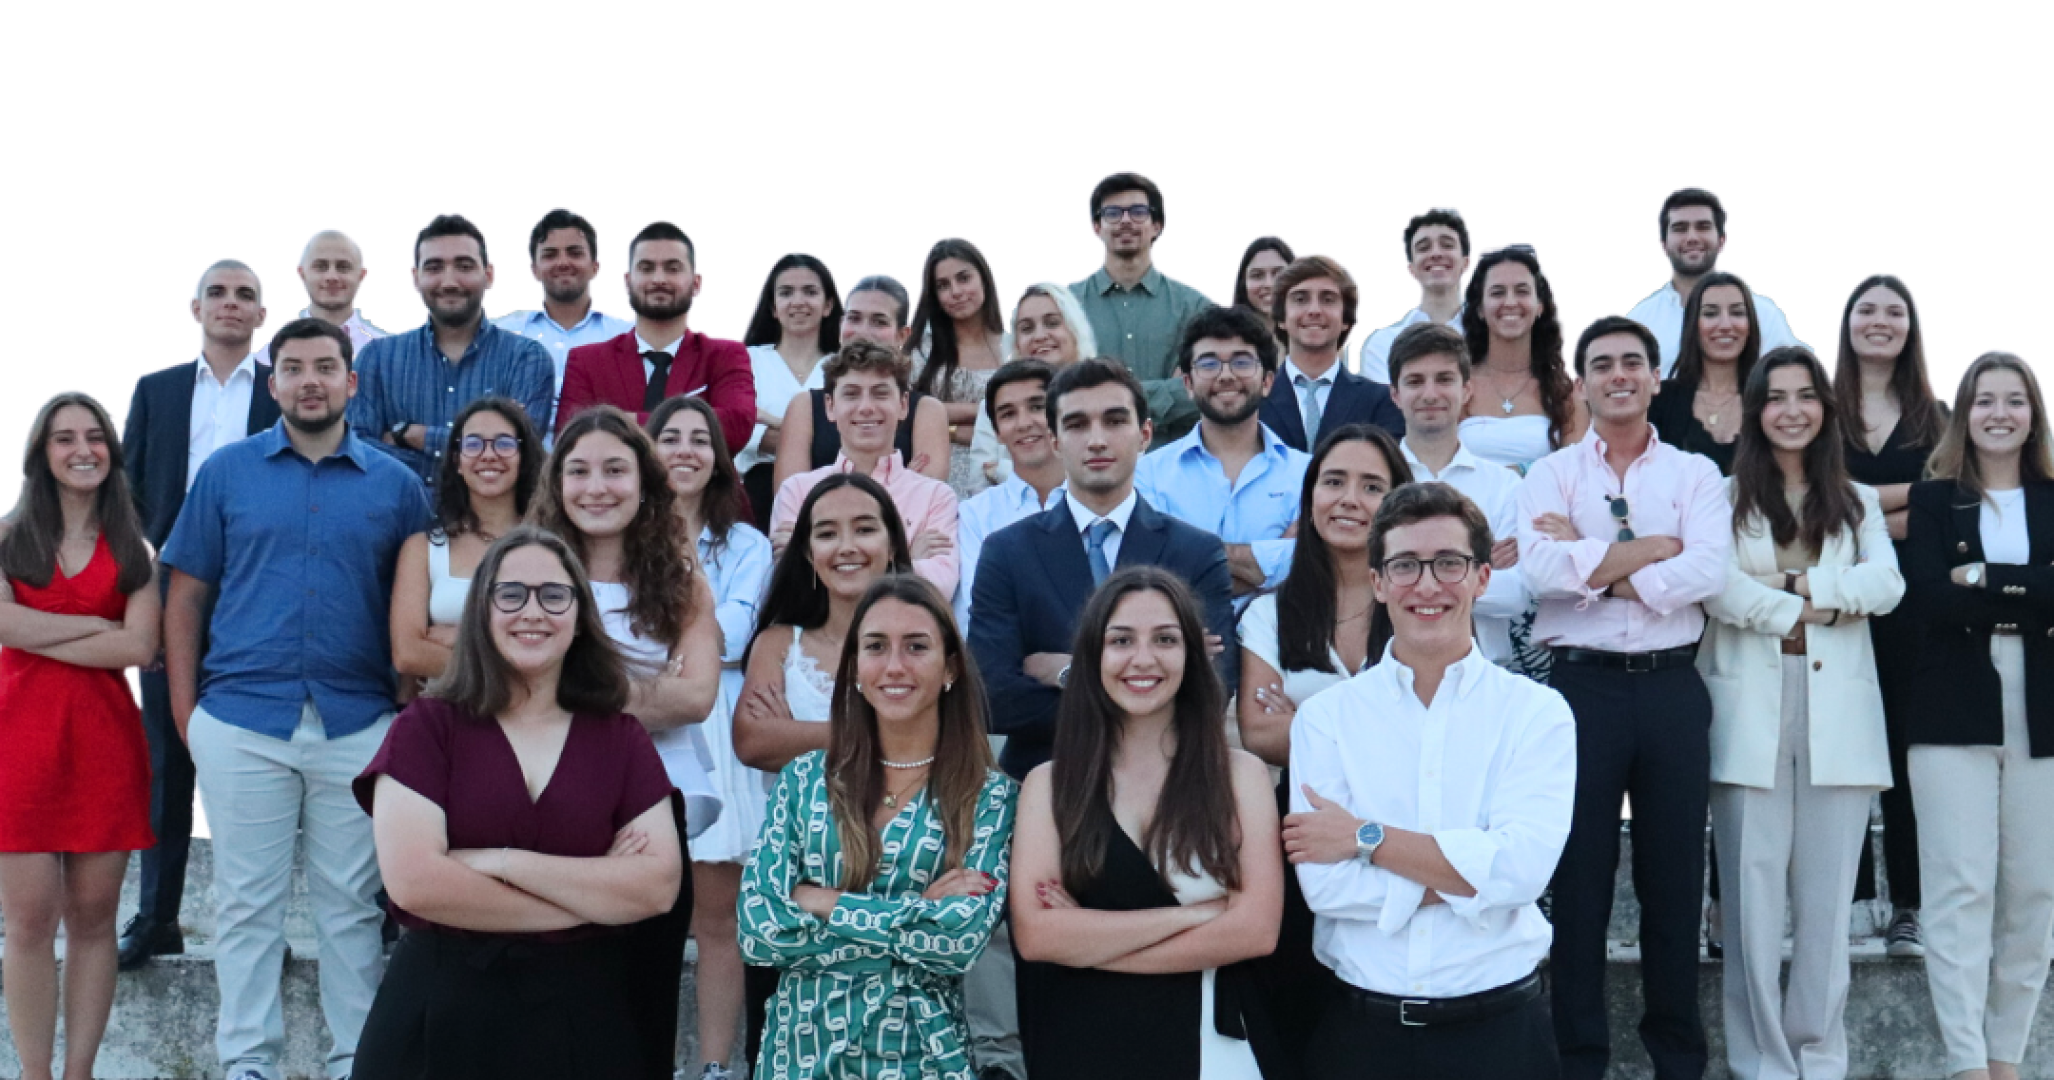
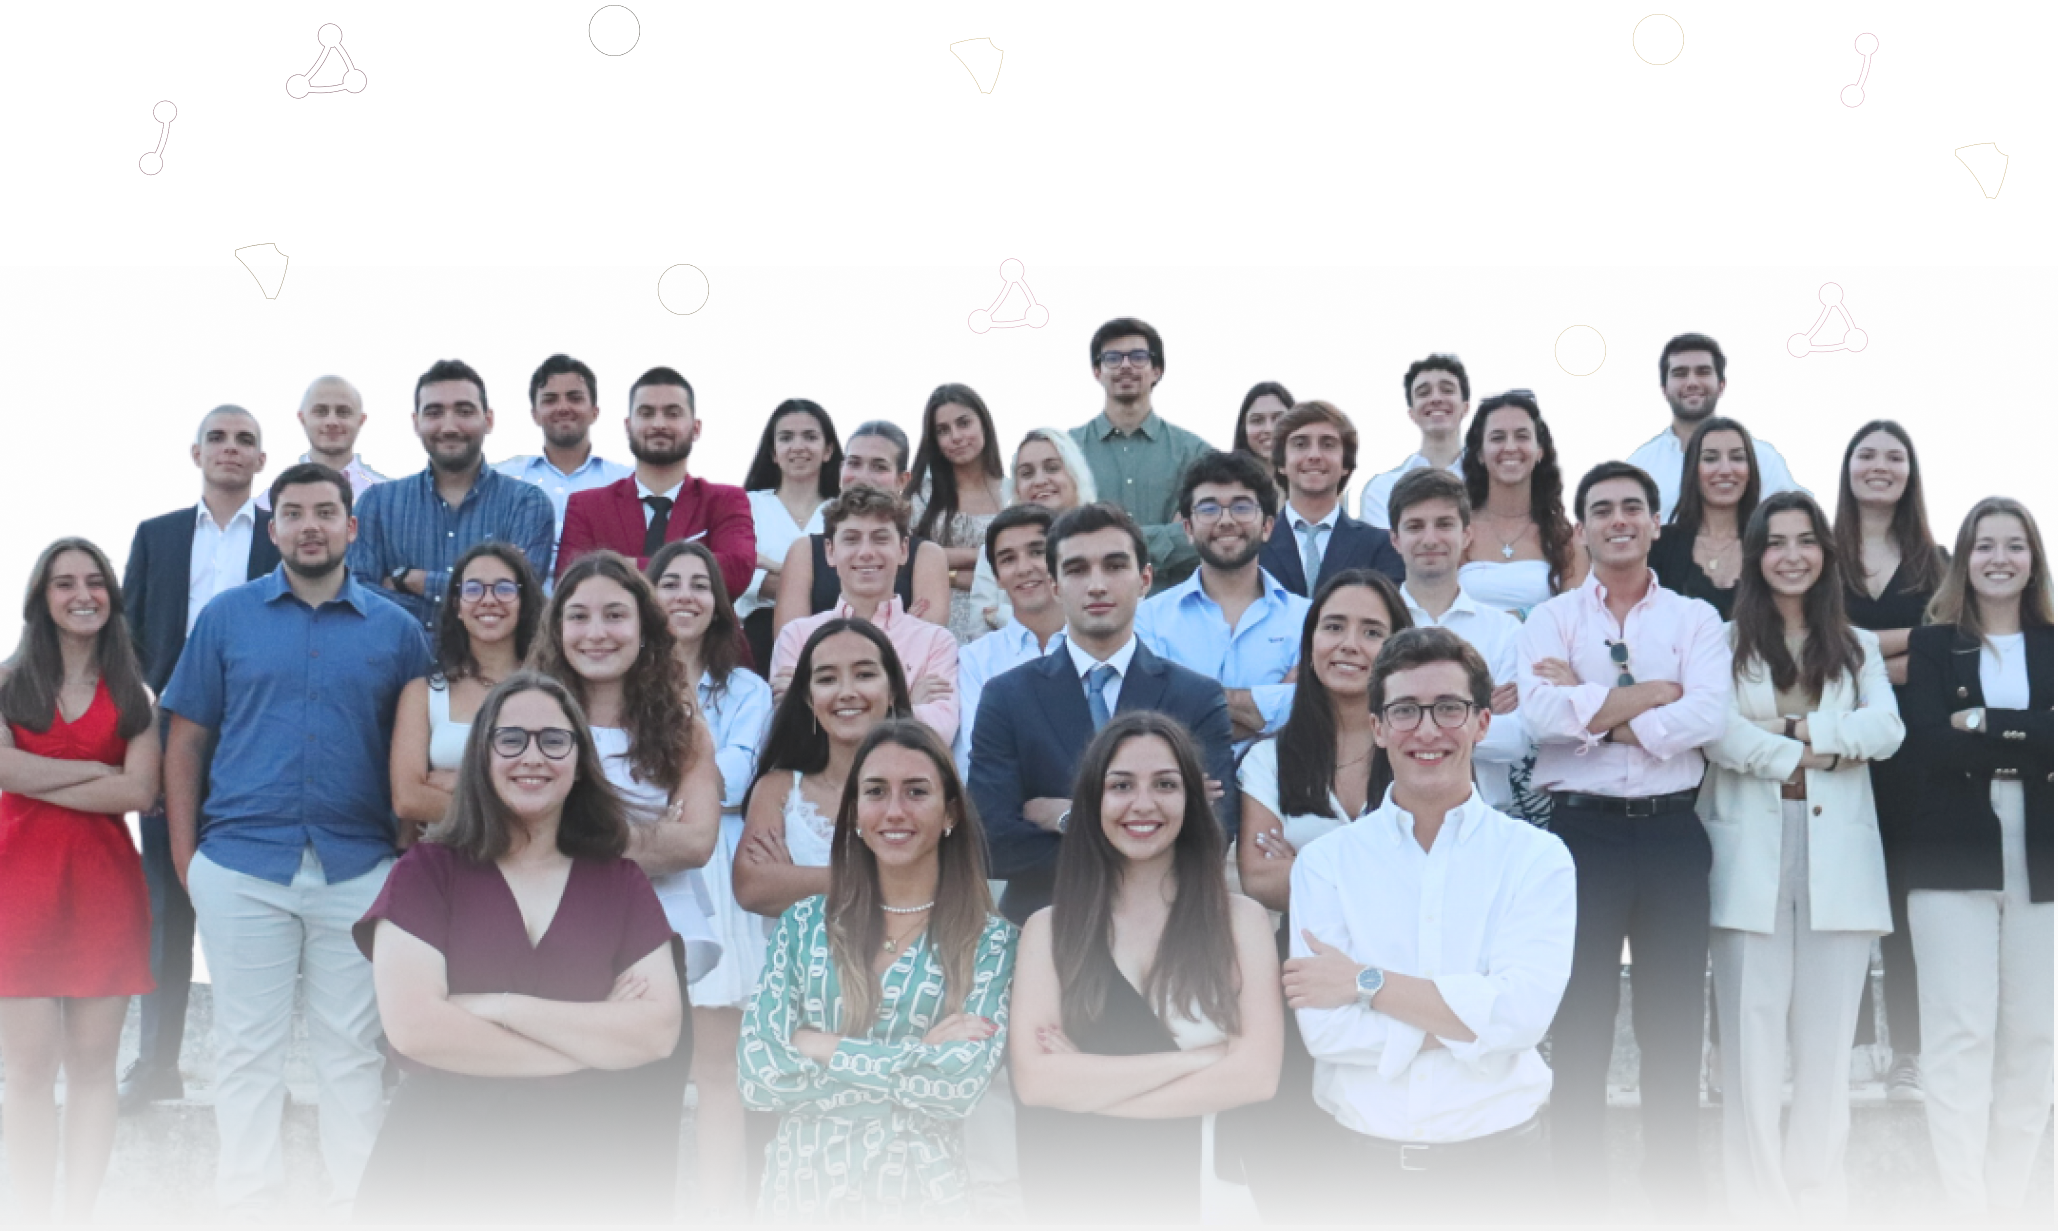
Mudei a iamgem de posse e desenvolvi mais um boado na pag do our team

diff --git a/src/Pages/Our-Team.js b/src/Pages/Our-Team.js
@@ -1,25 +1,63 @@
-import { Box, Typography, Card, CardMedia } from '@mui/material';
+import { Box, Typography } from '@mui/material';
 import React from 'react';
-import { ThemeProvider } from '@mui/material/styles';
-import { useTheme } from '@mui/material/styles';
+import { ThemeProvider, useTheme } from '@mui/material/styles';
 import HeroImage from './TOMADA DE POSSE.png'; // Change to a better res image?
 
-
 const OurTeam = () => {
+    const theme = useTheme();
+
     return (
-        <ThemeProvider theme={useTheme}>
-            <Box>
-                <Typography variant="h3" align="center" gutterBottom>
+        <ThemeProvider theme={theme}>
+            <Box position="relative">
+                <img
+                    src={HeroImage}
+                    alt="Innova Tomada De Posse"
+                    style={{ width: '100%', height: 'auto' }}
+                />
+                <Typography
+                    variant="h3"
+                    align="center"
+                    gutterBottom
+                    sx={{
+                        fontWeight: 'Regular',
+                        position: 'absolute',
+                        top: '15%',
+                        left: '50%',
+                        transform: 'translate(-50%, -50%)',
+                        zIndex: 1,
+                        color: theme.palette.secondary.main,
+                        fontFamily: theme.typography.fontFamily,
+                        width: '100%',
+                        textAlign: 'center',
+                    }}>
                     We are made of people
                 </Typography>
-                <div className="image" style={{ maxWidth: '100%', overflow: 'hidden' }}>
-                    <img
-                        className="TOMADA-DE-POSSE" alt="Innova Tomada De Posse" src={HeroImage} style={{ width: '100%', height: 'auto' }} />
-                </div>
+            </Box>
+            
+            <Box marginTop={4} marginBottom={4} textAlign="center">
+                <Typography
+                        variant="h5"
+                        align="center"
+                        sx={{
+                            fontWeight: 'Medium',
+                            color: theme.palette.secondary.main,
+                            fontFamily: theme.typography.fontFamily,
+                            marginBottom: 1, // Adding margin bottom between texts
+                        }}>
+                        Our Board
+                    </Typography>
+                    <Typography
+                        align="center"
+                        sx={{
+                            fontWeight: 'Regular',
+                            color: theme.palette.secondary.main,
+                            fontFamily: theme.typography.fontFamily,
+                        }}>
+                        our problem-solvers
+                    </Typography>                
             </Box>
         </ThemeProvider>
     );
 };
-
 
 export default OurTeam;

diff --git a/src/componens/Navbar.jsx b/src/componens/Navbar.jsx
@@ -108,7 +108,7 @@ const NavBar = () => {
                 >
                   {page.dropdownOptions.map((option, i) => (
                     <MenuItem key={i} onClick={handleMenuClose}>
-                      <Link to={`${page.route}${option.route}`} style={{ textDecoration: 'none', color: 'inherit' }}>
+                      <Link to={`${page.route}${option.route}`} style={{ textDecoration: 'none', color: 'inherit'}}>
                         {option.title}
                       </Link>
                     </MenuItem>

diff --git a/src/App.js b/src/App.js
@@ -13,7 +13,7 @@ import {Routes, Route} from 'react-router-dom'
 
 function App() {
   return (
-    <Box> 
+    <Box bgcolor="#F0F0F0"> 
       <Navbar/>
 
       <Routes>
